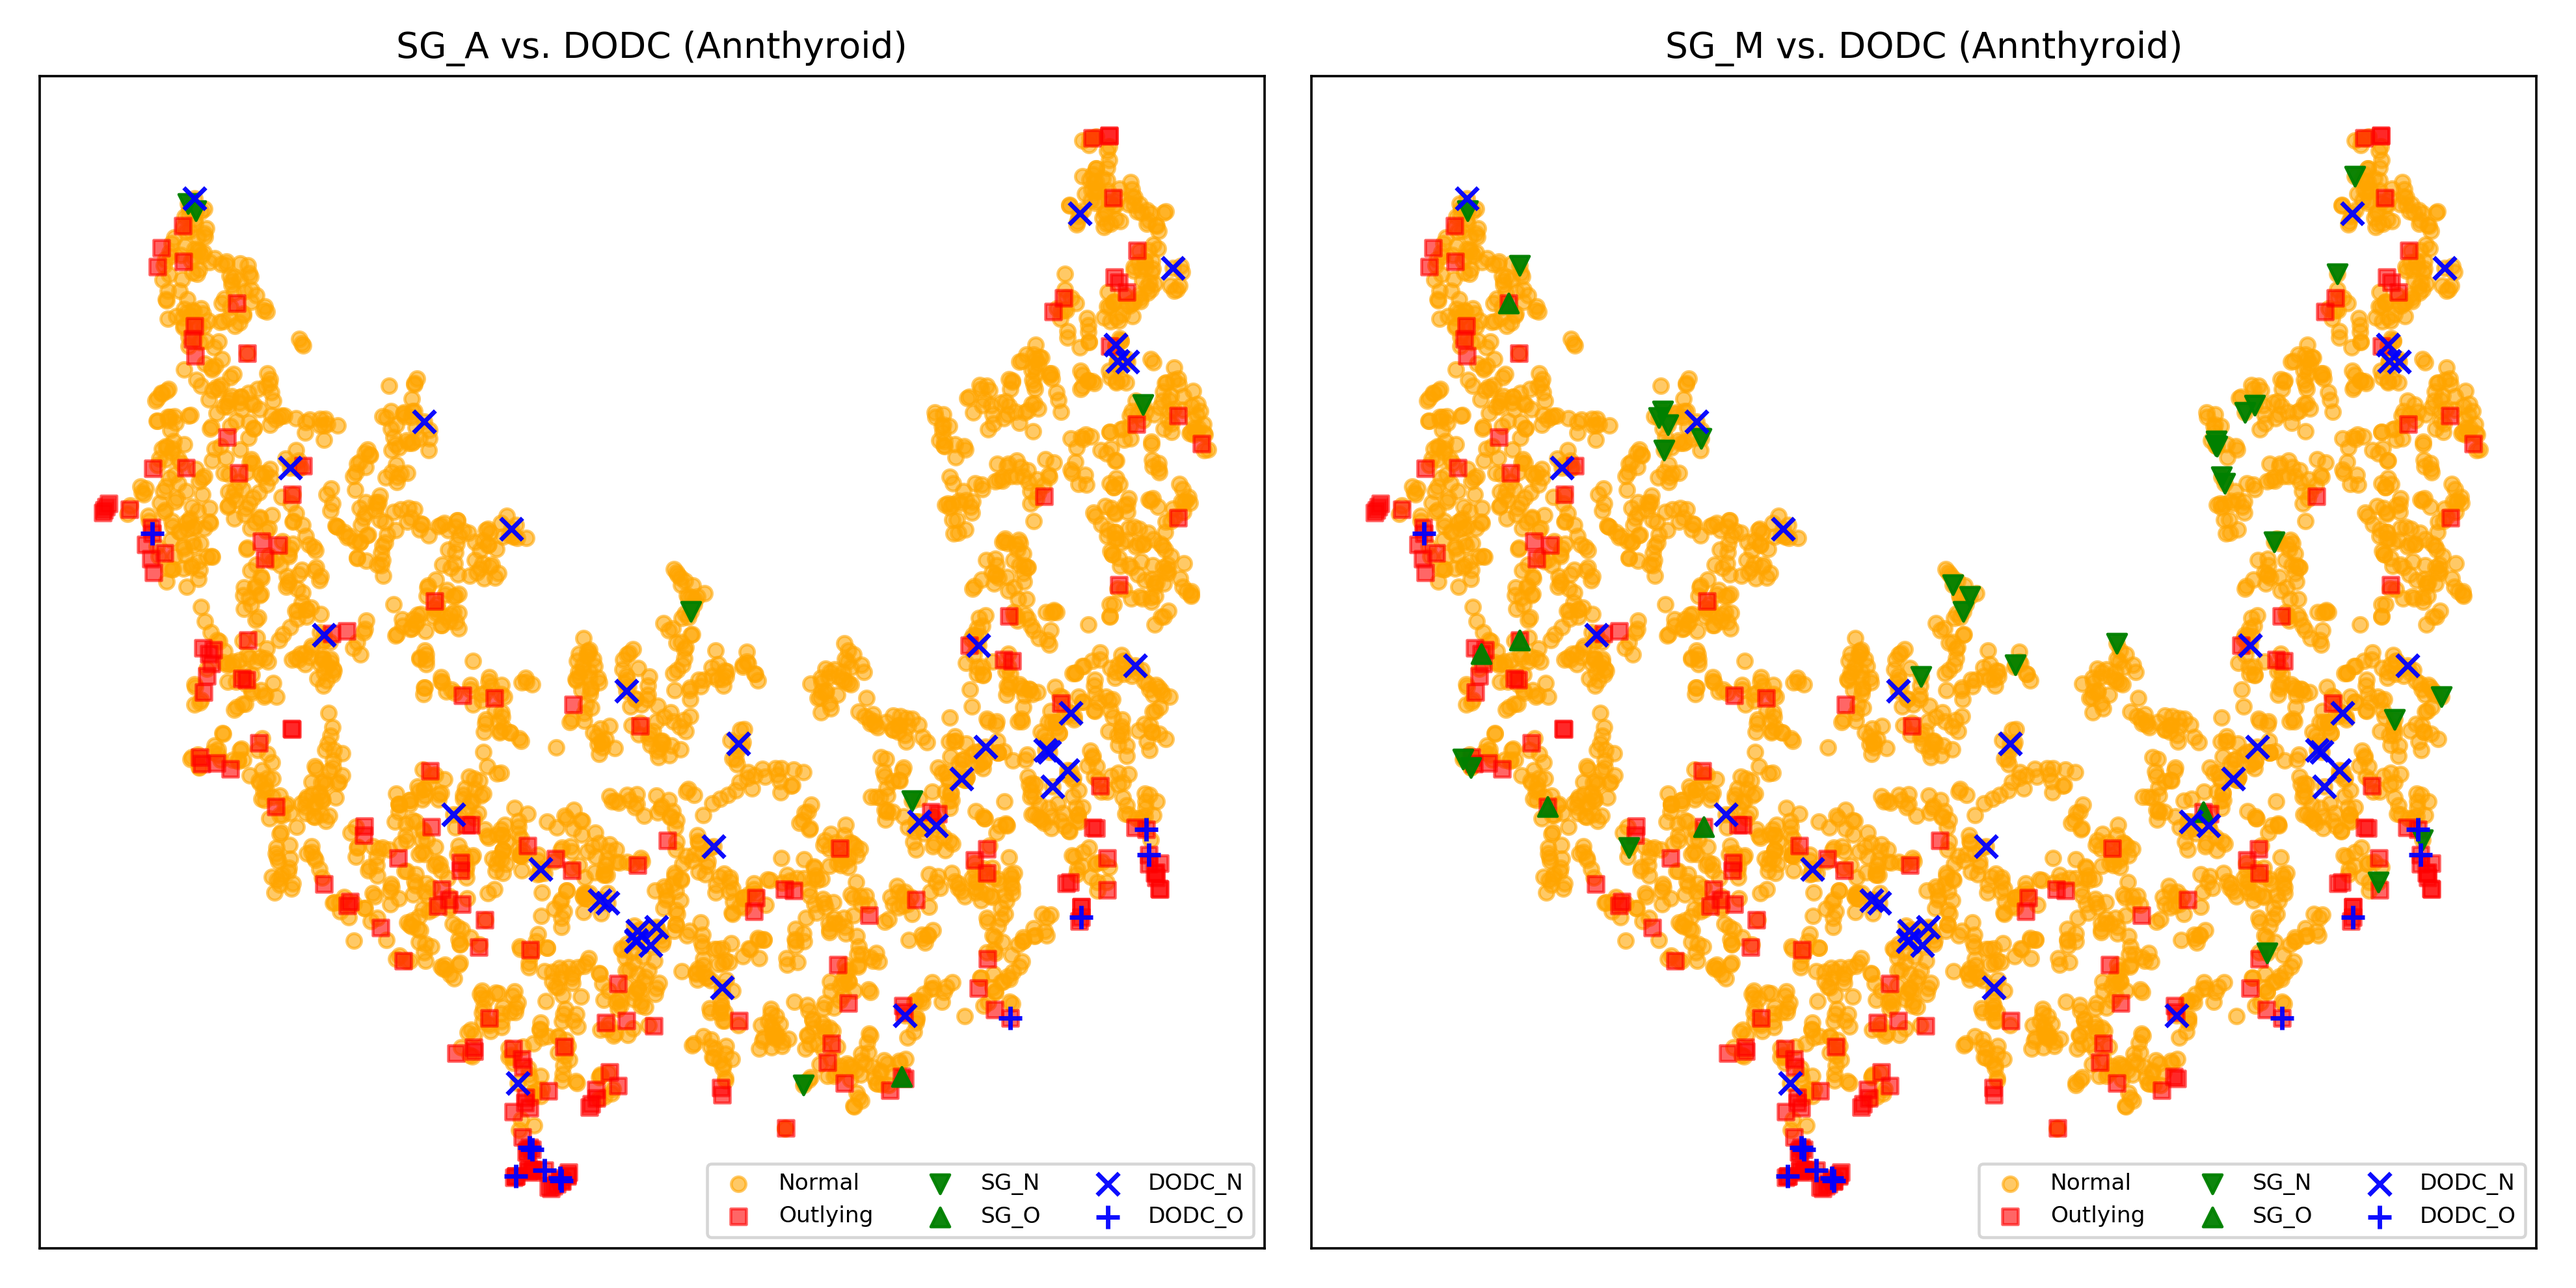
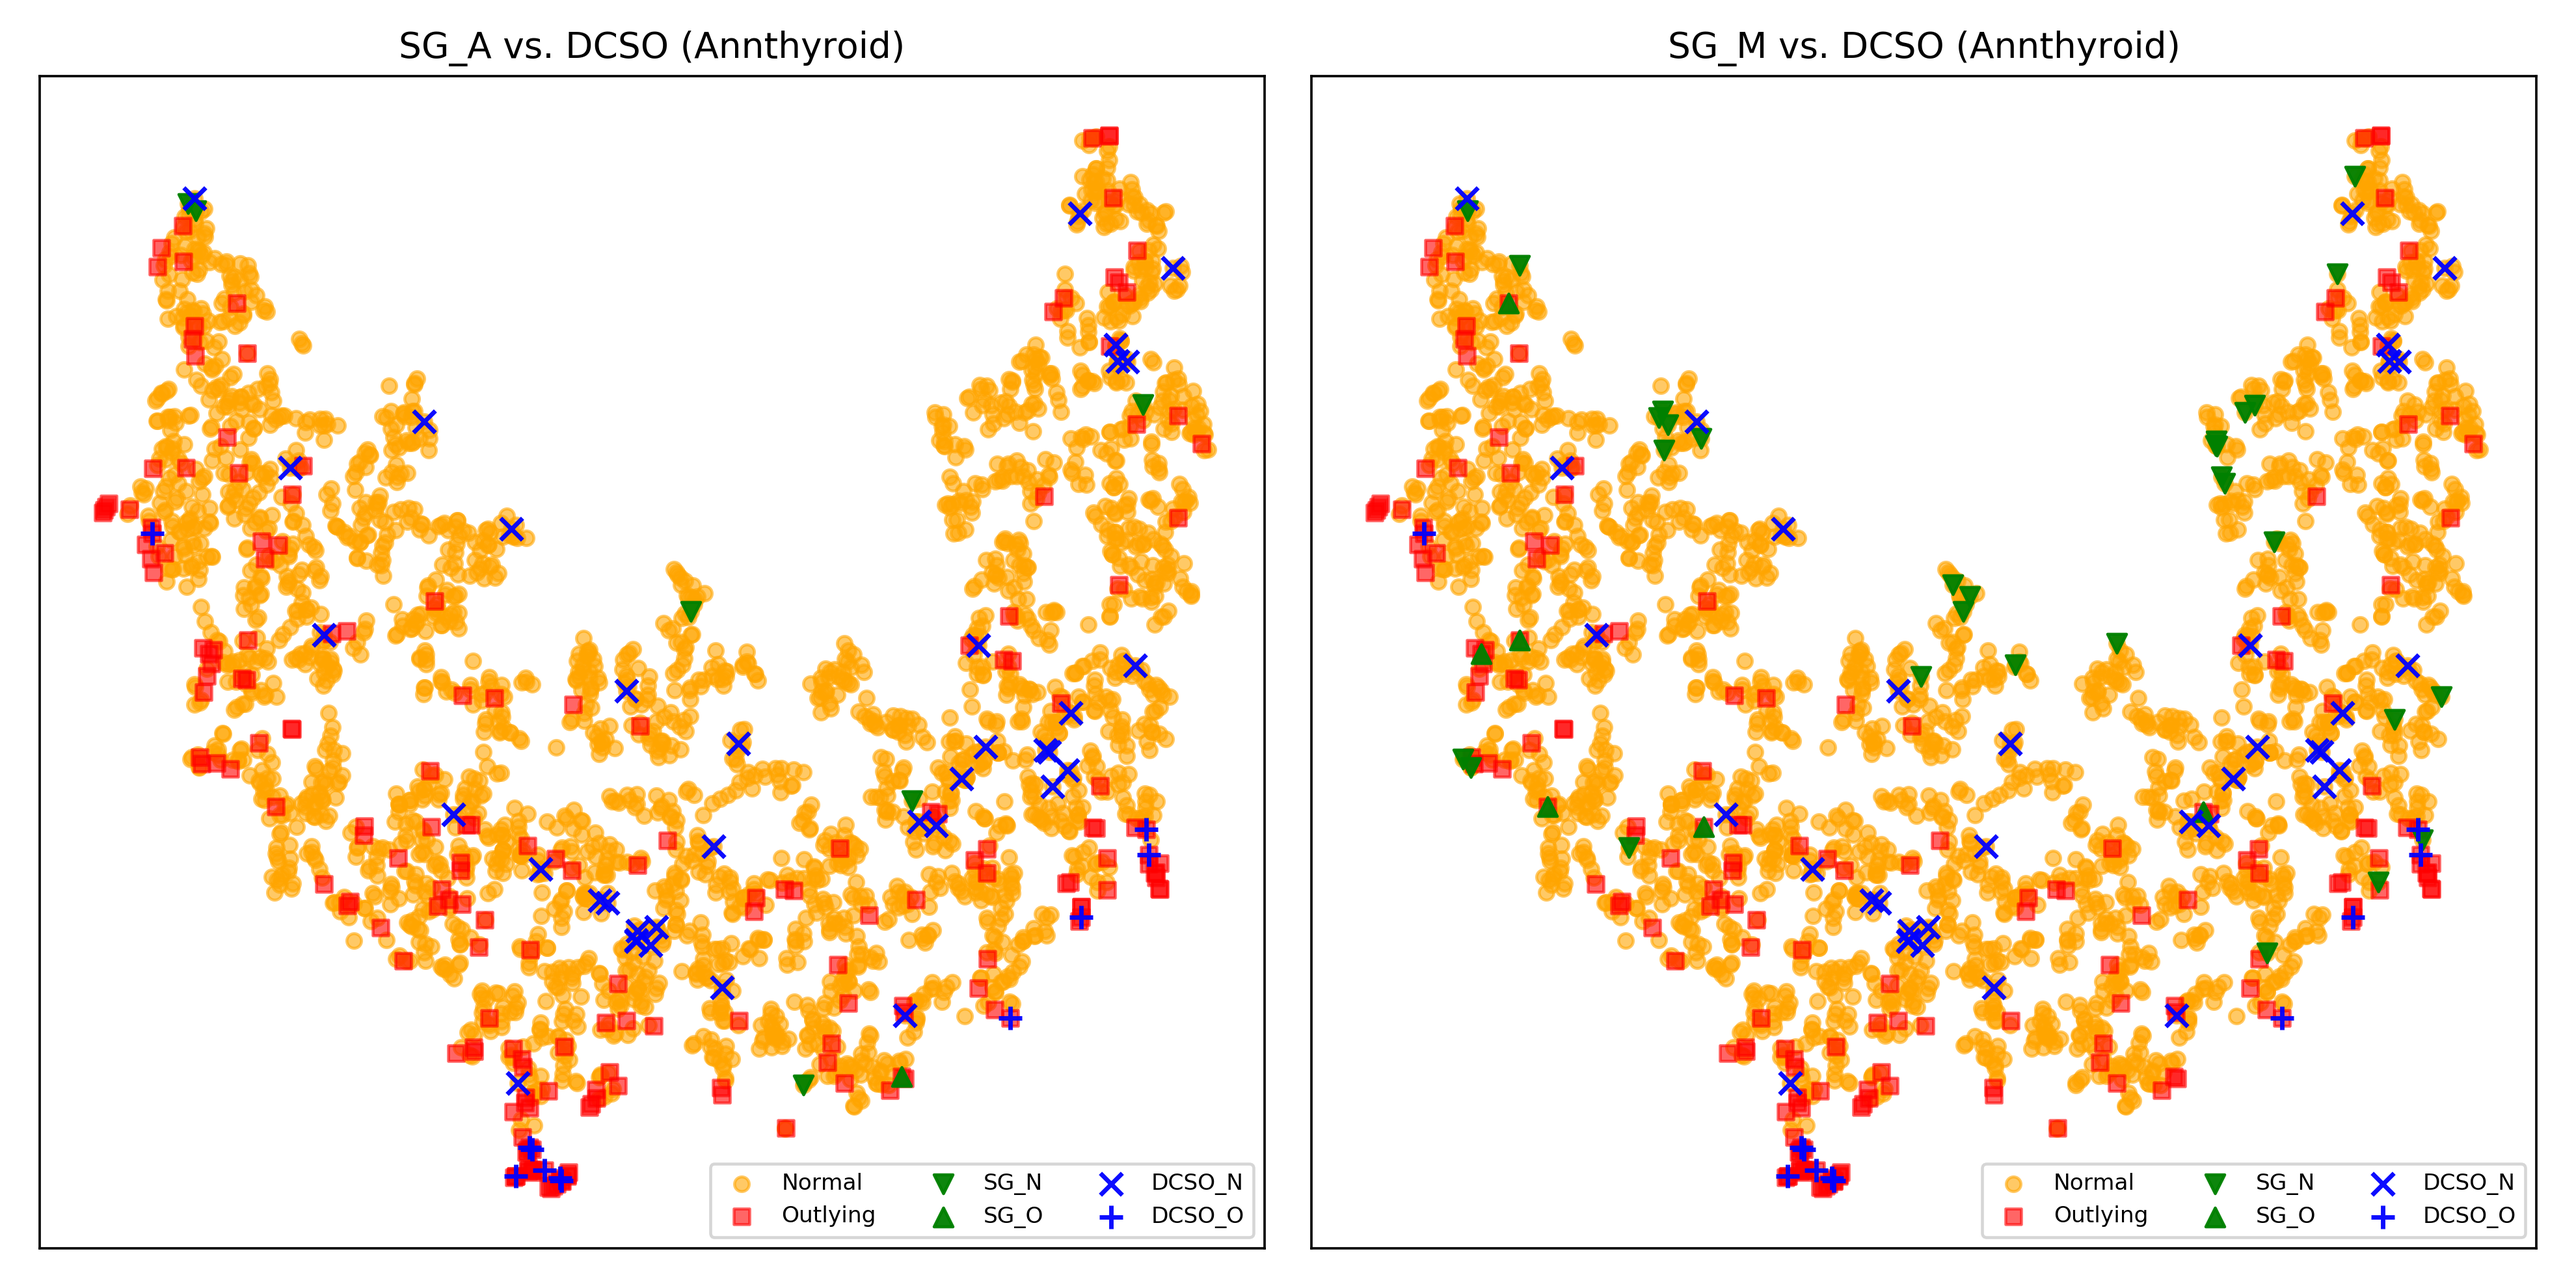
update framework name

diff --git a/vis_tsne.py b/vis_tsne.py
@@ -29,14 +29,14 @@ data_list = ["Annthyroid",
              "Vowels",
              "Cardio",
              "Mnist"]
-dodc_best_list = [186, 38, 71, 103, 233, 157, 128, 127, 97]
+DCSO_best_list = [186, 38, 71, 103, 233, 157, 128, 127, 97]
 
-for data, dodc_best in zip(data_list, dodc_best_list):
+for data, DCSO_best in zip(data_list, DCSO_best_list):
 
     print('processing', data)
     X_test_list = []
     X_test_name_list = []
-    dodc_best_list = []
+    DCSO_best_list = []
     test_target_list_list = []
     y_test_list = []
     trans_data_list = []
@@ -350,7 +350,7 @@ for data, dodc_best in zip(data_list, dodc_best_list):
         TSNE(n_components=2, init='pca').fit_transform(X_test))
     X_test_list.append(X_test)
     X_test_name_list.append(data)
-    dodc_best_list.append(dodc_best)
+    DCSO_best_list.append(DCSO_best)
     test_target_list_list.append(test_target_list)
     y_test_list.append(y_test)
     ##########################################################################
@@ -360,7 +360,7 @@ for data, dodc_best in zip(data_list, dodc_best_list):
 
         # find the comparision
         dcs_target = get_label_n(y_test_list[k],
-                                 test_target_list_list[k][dodc_best_list[k]])
+                                 test_target_list_list[k][DCSO_best_list[k]])
         mean_target = get_label_n(y_test_list[k], test_target_list_list[k][0])
         max_target = get_label_n(y_test_list[k], test_target_list_list[k][1])
 
@@ -453,10 +453,10 @@ for data, dodc_best in zip(data_list, dodc_best_list):
                     color='g', alpha=0.95, s=40, marker='^')
 
         plt.scatter(trans_data_list[k][dcs_norm_max, 0],
-                    trans_data_list[k][dcs_norm_max, 1], label='DODC_N',
+                    trans_data_list[k][dcs_norm_max, 1], label='DCSO_N',
                     color='b', alpha=0.95, s=54, marker='x')
         plt.scatter(trans_data_list[k][dcs_out_max, 0],
-                    trans_data_list[k][dcs_out_max, 1], label='DODC_O',
+                    trans_data_list[k][dcs_out_max, 1], label='DCSO_O',
                     color='b', alpha=0.95, s=65, marker='+')
 
 
@@ -464,7 +464,7 @@ for data, dodc_best in zip(data_list, dodc_best_list):
                    bbox_transform=plt.gcf().transFigure)
         plt.xticks([])
         plt.yticks([])
-        plt.title('SG_A vs. DODC (' + X_test_name_list[k] + ')', fontsize=12)
+        plt.title('SG_A vs. DCSO (' + X_test_name_list[k] + ')', fontsize=12)
 
         # plot max
         plt.subplot(122)
@@ -484,17 +484,17 @@ for data, dodc_best in zip(data_list, dodc_best_list):
                     color='g', alpha=0.95, s=40, marker='^')
 
         plt.scatter(trans_data_list[k][dcs_norm_max, 0],
-                    trans_data_list[k][dcs_norm_max, 1], label='DODC_N',
+                    trans_data_list[k][dcs_norm_max, 1], label='DCSO_N',
                     color='b', alpha=0.95, s=54, marker='x')
         plt.scatter(trans_data_list[k][dcs_out_max, 0],
-                    trans_data_list[k][dcs_out_max, 1], label='DODC_O',
+                    trans_data_list[k][dcs_out_max, 1], label='DCSO_O',
                     color='b', alpha=0.95, s=65, marker='+')
 
         plt.legend(ncol=3, prop={'size': 7.5}, loc='lower right',
                    bbox_transform=plt.gcf().transFigure)
         plt.xticks([])
         plt.yticks([])
-        plt.title('SG_M vs. DODC (' + X_test_name_list[k] + ')', fontsize=12)
+        plt.title('SG_M vs. DCSO (' + X_test_name_list[k] + ')', fontsize=12)
 
     plt.tight_layout()
 

diff --git a/demo_knn.py b/demo_knn.py
@@ -203,8 +203,8 @@ if __name__ == '__main__':
         for m in range(len(m_list)):
             test_target_list.extend([pred_scores_best[:, m],
                                      pred_scores_ens[:, m]])
-            method_list.extend(['dodc_a_' + m_list[m],
-                                'dodc_moa_' + m_list[m]])
+            method_list.extend(['DCSO_a_' + m_list[m],
+                                'DCSO_moa_' + m_list[m]])
         ######################################################################
 
         # use max for pseudo ground truth generation
@@ -272,8 +272,8 @@ if __name__ == '__main__':
         for m in range(len(m_list)):
             test_target_list.extend([pred_scores_best[:, m],
                                      pred_scores_ens[:, m]])
-            method_list.extend(['dodc_m_' + m_list[m],
-                                'dodc_aom_' + m_list[m]])
+            method_list.extend(['DCSO_m_' + m_list[m],
+                                'DCSO_aom_' + m_list[m]])
 
         # store performance information and print result
         for i in range(n_baselines):

diff --git a/demo_lof.py b/demo_lof.py
@@ -203,8 +203,8 @@ if __name__ == '__main__':
         for m in range(len(m_list)):
             test_target_list.extend([pred_scores_best[:, m],
                                      pred_scores_ens[:, m]])
-            method_list.extend(['dodc_a_' + m_list[m],
-                                'dodc_moa_' + m_list[m]])
+            method_list.extend(['DCSO_a_' + m_list[m],
+                                'DCSO_moa_' + m_list[m]])
         ######################################################################
 
         # use max for pseudo ground truth generation
@@ -272,8 +272,8 @@ if __name__ == '__main__':
         for m in range(len(m_list)):
             test_target_list.extend([pred_scores_best[:, m],
                                      pred_scores_ens[:, m]])
-            method_list.extend(['dodc_m_' + m_list[m],
-                                'dodc_aom_' + m_list[m]])
+            method_list.extend(['DCSO_m_' + m_list[m],
+                                'DCSO_aom_' + m_list[m]])
 
         # store performance information and print result
         for i in range(n_baselines):
